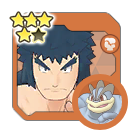
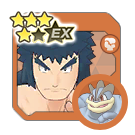
Bruno EX

diff --git a/js/syncpairs.js b/js/syncpairs.js
@@ -751,7 +751,8 @@ export const SYNCPAIRS = [
 		"syncPairRegion": "Kanto",
 		"images": [
 			"Sync Pairs/0A_KANTO/0A_KANTO_0C-02_Bruno.png",
-			"Sync Pairs/5Star/0A_KANTO_0C-02_Bruno_5Star.png"
+			"Sync Pairs/5Star/0A_KANTO_0C-02_Bruno_5Star.png",
+			"Sync Pairs/0A_KANTO/0A_KANTO_0C-02_Bruno_EX.png"
 		],
 		"themes": [
 			"Fighting",
